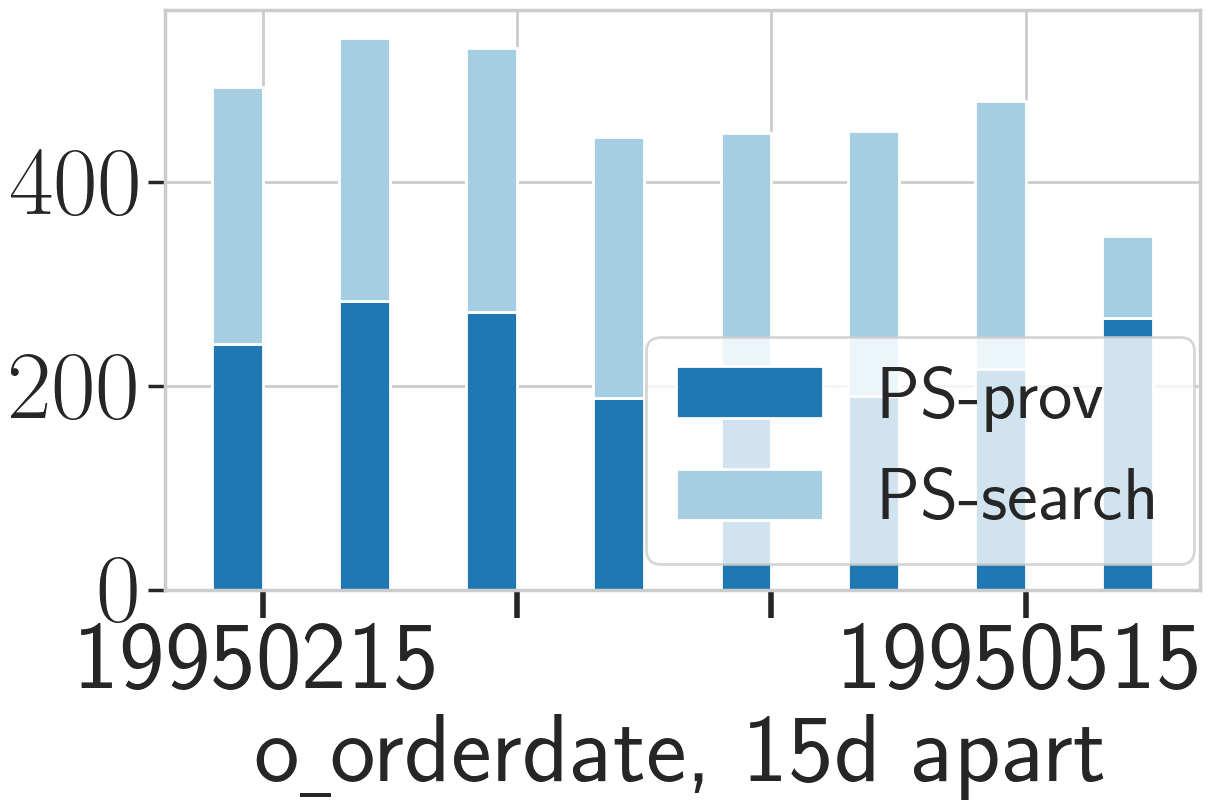
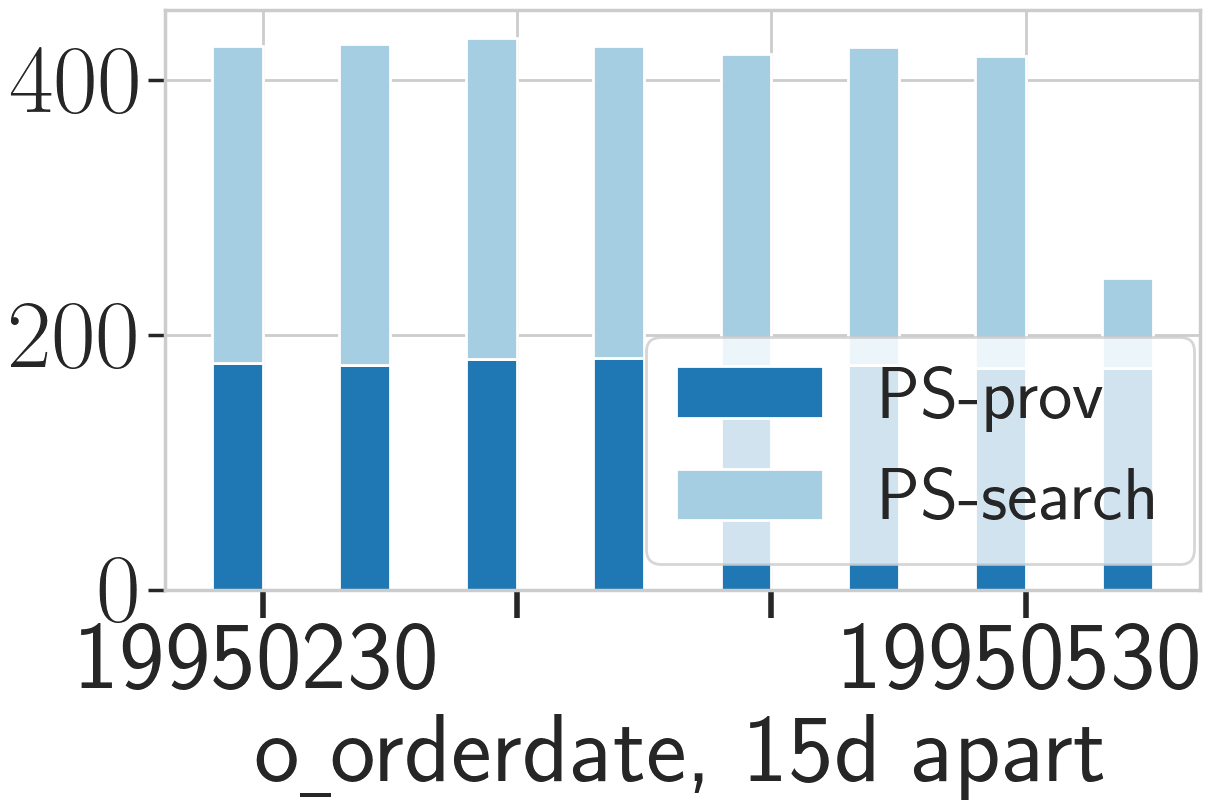
10G query selectivity q3 refine

diff --git a/Experiment/TPCH/10G/query_selectivity/q3_refine/query_change_10G_q3_refine.py b/Experiment/TPCH/10G/query_selectivity/q3_refine/query_change_10G_q3_refine.py
@@ -34,7 +34,7 @@ def run_constraint(c):
     result_output = open(result_output_file, "w")
     result_output.write("selection file, result\n")
 
-    for i in range(1, 9):
+    for i in range(-2, 11):
         print("query", i)
         query_file = query_file_prefix + str(i) + ".json"
         print("========================== provenance search ===================================")

diff --git a/Experiment/TPCH/10G/query_selectivity/q3_refine/fig.py b/Experiment/TPCH/10G/query_selectivity/q3_refine/fig.py
@@ -60,7 +60,7 @@ def run(query, size, constraint):
             execution_timebl1.append(0)
             execution_timebl2.append(0)
     # x_list = [19941230, 19950115, 19950130, 19950215, 19950230, 19950315, 19950330, 19950415]
-    x_list = [19950215, '', '', 19950515]
+    x_list = [19950230, '', '', 19950530]
 
     print(x_list, execution_timeps1, execution_timeps2)
 
